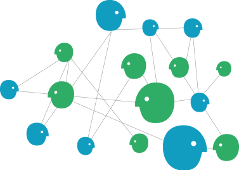
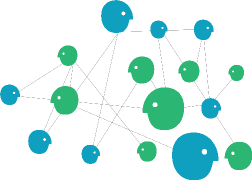
update: hd quality for slider png

diff --git a/templates/funding/index.html b/templates/funding/index.html
@@ -44,7 +44,7 @@
         <img id="sliderimg1" src="/img/slider1.png" class="sliderimg sliderimgcloser1" />
         <img id="sliderimg2" src="/img/slider2.png" class="sliderimg invisible sliderimgcloser" />
         <img id="sliderimg3" src="/img/slider3.png" class="sliderimg invisible sliderimgcloser3" />
-        <img id="sliderimg4" src="/img/slider4.png" class="sliderimg invisible" />
+        <img id="sliderimg4" src="/img/slider4.png" class="sliderimg invisible sliderimgcloser4" />
     </div>
 </div>
 <div class="fundingdesc">

diff --git a/public/css/oi.css b/public/css/oi.css
@@ -465,7 +465,7 @@ img.tabicon {
     border-radius: 3px;
 }
 .sliderimg {
-    margin-top: 8px;
+/*    margin-top: 8px;*/
 }
 .sliderimgcloser{
     margin-left: 70px;
@@ -475,6 +475,9 @@ img.tabicon {
 }
 .sliderimgcloser1{
     margin-left: 130px;
+}
+.sliderimgcloser4{
+    margin-left: -30px;
 }
 .indexslide {
     width: 650px;
@@ -517,7 +520,6 @@ img.tabicon {
 }
 .slider dl {
     margin-bottom: 0;
-    text-transform: uppercase;
     font-weight: bold;
 }
 .slider dd {

diff --git a/public/css/oifunding.css b/public/css/oifunding.css
@@ -4,7 +4,6 @@
 .slidertip {
     color: #767676;
     font-size: 0.8em;
-    font-weight: bold;
 }
 .slidermore {
     background: #CCE4F3;
